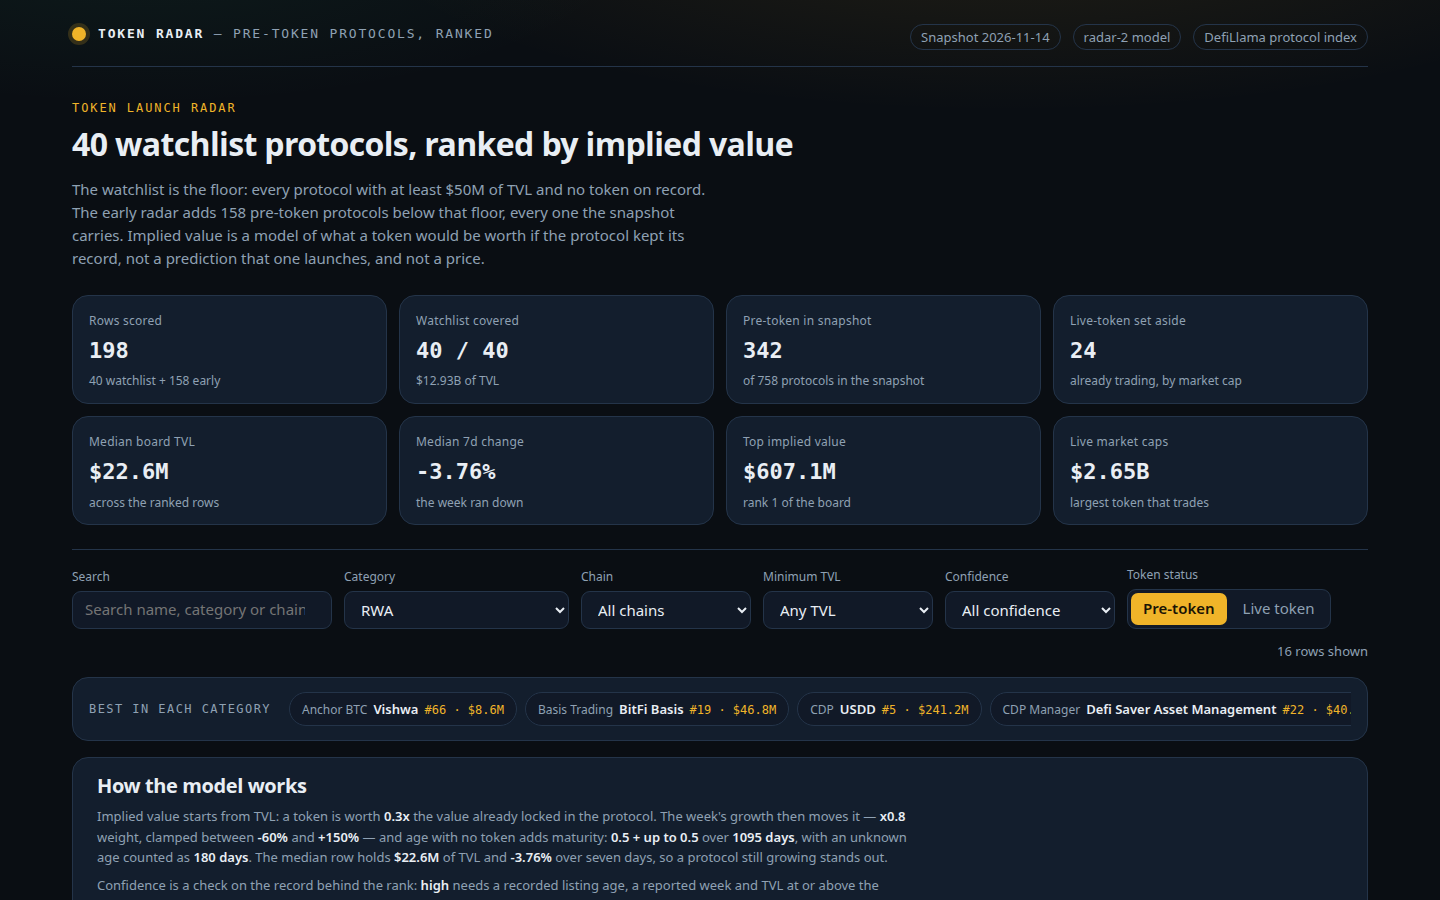
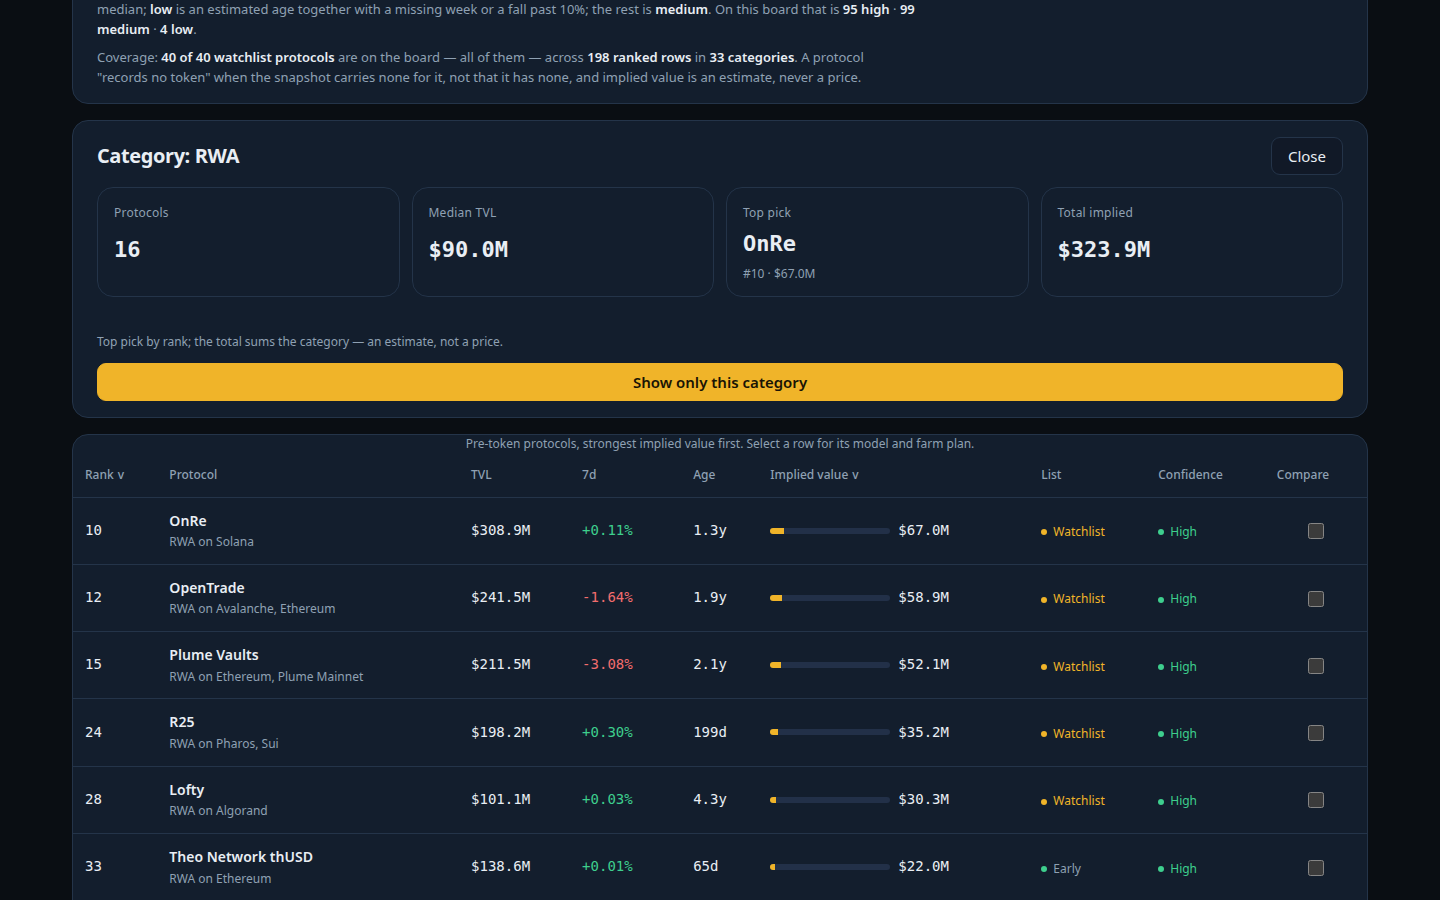
Round 5: compare two protocols + category overview (dashboard-only, board unchanged)

diff --git a/dashboard/app.js b/dashboard/app.js
@@ -250,7 +250,7 @@ function planTotalText(steps) {
   if (!DATA || typeof document === 'undefined') return;
   var app = document.getElementById('board');
   if (!app) return;
-  var state = { q: '', category: 'all', chain: 'all', minTvl: 0, confidence: 'all', tab: 'pre-token', sort: 'implied', dir: -1, selected: null, kbIndex: -1 };
+  var state = { q: '', category: 'all', chain: 'all', minTvl: 0, confidence: 'all', tab: 'pre-token', sort: 'implied', dir: -1, selected: null, kbIndex: -1, compare: [], catOv: null };
 
   function el(tag, attrs) {
     var node = document.createElement(tag);
@@ -282,6 +282,8 @@ function planTotalText(steps) {
     if (params.get('chain')) state.chain = params.get('chain');
     if (params.get('mintvl')) state.minTvl = Number(params.get('mintvl')) || 0;
     if (params.get('conf')) state.confidence = params.get('conf');
+    if (params.get('cmp')) state.compare = params.get('cmp').split(',').slice(0, 2);
+    if (params.get('catov')) state.catOv = params.get('catov');
     if (params.get('tab')) state.tab = params.get('tab');
     if (params.get('p')) state.selected = params.get('p');
   }
@@ -292,6 +294,8 @@ function planTotalText(steps) {
     if (state.chain !== 'all') params.set('chain', state.chain);
     if (state.minTvl) params.set('mintvl', String(state.minTvl));
     if (state.confidence !== 'all') params.set('conf', state.confidence);
+    if (state.compare.length) params.set('cmp', state.compare.join(','));
+    if (state.catOv) params.set('catov', state.catOv);
     if (state.tab !== 'pre-token') params.set('tab', state.tab);
     if (state.selected) params.set('p', state.selected);
     var next = params.toString();
@@ -405,7 +409,8 @@ function planTotalText(steps) {
       el('div', { class: 'field' }, el('label', { for: 'mintvl', text: 'Minimum TVL' }), mintvl),
       el('div', { class: 'field' }, el('label', { for: 'confidence', text: 'Confidence' }), conf),
       el('div', { class: 'field' }, el('span', { class: 'sub', text: 'Token status' }), el('div', { class: 'tabs' }, pre, live)),
-      el('span', { class: 'count', text: state.tab === 'pre-token' ? rows().length + ' rows shown' : DATA.live.length + ' live-token protocols' })
+      el('span', { class: 'count', text: state.tab === 'pre-token' ? rows().length + ' rows shown' : DATA.live.length + ' live-token protocols' }),
+      state.category !== 'all' ? el('button', { class: 'button', type: 'button', text: 'Category overview', onclick: function () { openCatOv(state.category); } }) : null
     );
   }
 
@@ -452,7 +457,10 @@ function planTotalText(steps) {
           el('span', { class: 'num', text: fmtUsd(r.implied_value_usd) })
         )),
         el('td', null, el('span', { class: r.watchlist ? 'badge watch' : 'badge', text: r.watchlist ? 'Watchlist' : 'Early' })),
-        el('td', null, el('span', { class: 'badge conf-' + confidenceOf(r, DATA.median_tvl_usd), text: confidenceLabel(confidenceOf(r, DATA.median_tvl_usd)) }))
+        el('td', null, el('span', { class: 'badge conf-' + confidenceOf(r, DATA.median_tvl_usd), text: confidenceLabel(confidenceOf(r, DATA.median_tvl_usd)) })),
+        el('td', { class: 'cmp', onclick: function (e) { e.stopPropagation(); } },
+          el('input', { type: 'checkbox', 'aria-label': 'Compare ' + r.name, checked: state.compare.indexOf(r.slug) >= 0 ? 'checked' : null, onchange: function () { toggleCompare(r.slug); } })
+        )
       );
       if (state.kbIndex === i) tr.classList.add('kb-selected');
       tbody.appendChild(tr);
@@ -469,7 +477,8 @@ function planTotalText(steps) {
             sortHeader('age', 'Age'),
             sortHeader('implied', 'Implied value'),
             el('th', { scope: 'col', text: 'List' }),
-            sortHeader('confidence', 'Confidence')
+            sortHeader('confidence', 'Confidence'),
+            el('th', { scope: 'col', text: 'Compare' })
           )),
           tbody
         )
@@ -515,10 +524,12 @@ function planTotalText(steps) {
       el('span', { class: 'best-label', text: 'Best in each category' }),
       el('div', { class: 'best-list' }, cats.map(function (c) {
         var r = byCat[c];
-        return el('button', { type: 'button', class: 'best-item', onclick: function () { openDetail(r.slug); } },
-          el('span', { class: 'best-cat', text: c }),
-          el('b', { text: r.name }),
-          el('span', { class: 'num', text: '#' + r.rank + ' · ' + fmtUsd(r.implied_value_usd) })
+        return el('span', { class: 'best-item' },
+          el('button', { type: 'button', class: 'best-cat', text: c, onclick: function () { openCatOv(c); } }),
+          el('button', { type: 'button', class: 'best-open', onclick: function () { openDetail(r.slug); } },
+            el('b', { text: r.name }),
+            el('span', { class: 'num', text: '#' + r.rank + ' · ' + fmtUsd(r.implied_value_usd) })
+          )
         );
       }))
     );
@@ -553,6 +564,90 @@ function planTotalText(steps) {
         'across ', el('b', { text: DATA.board_size + ' ranked rows' }), ' in ', el('b', { text: categories + ' categories' }), '. ',
         'A protocol "records no token" when the snapshot carries none for it, not that it has none, and implied value is an estimate, never a price.'
       )
+    );
+  }
+
+  /** Compare, by slug: two protocols side by side, with a verdict the model implies.
+      Selection lives in state, so it survives filtering; a third check replaces the oldest. */
+  function rowBySlug(slug) {
+    return DATA.rows.filter(function (r) { return r.slug === slug; })[0];
+  }
+  function toggleCompare(slug) {
+    var i = state.compare.indexOf(slug);
+    if (i >= 0) state.compare.splice(i, 1);
+    else { if (state.compare.length >= 2) state.compare.shift(); state.compare.push(slug); }
+    writeHash(); render();
+  }
+  function compareVerdict(a, b) {
+    var hi = a.implied_value_usd >= b.implied_value_usd ? a : b;
+    var lo = hi === a ? b : a;
+    var out = hi.name + ' #' + hi.rank + ' beats ' + lo.name + ' #' + lo.rank + ': ' + fmtUsd(hi.tvl_usd) + ' of TVL, ' + (hi.tvl_usd / Math.max(1, lo.tvl_usd)).toFixed(1) + 'x the other';
+    if (hi.change_7d !== null && lo.change_7d !== null && hi.change_7d !== lo.change_7d) out += ', and it ' + (hi.change_7d > lo.change_7d ? 'grew faster this week' : 'still ranks higher') + ' (' + fmtPct(hi.change_7d) + ' vs ' + fmtPct(lo.change_7d) + ')';
+    return out + ' — so the model reads ' + fmtUsd(hi.implied_value_usd) + ' against ' + fmtUsd(lo.implied_value_usd) + '.';
+  }
+  function comparePanel() {
+    if (state.compare.length === 0) return null;
+    var picked = state.compare.map(rowBySlug).filter(function (r) { return r; });
+    if (picked.length === 0) return null;
+    var names = picked.map(function (r) { return r.name; }).join(' vs ');
+    var head = el('div', { class: 'compare-head' },
+      el('h2', { text: picked.length === 2 ? 'Compare: ' + names : 'Compare: ' + names + ' — pick one more' }),
+      el('button', { class: 'button', type: 'button', text: 'Clear', onclick: function () { state.compare = []; writeHash(); render(); } })
+    );
+    if (picked.length < 2) return el('section', { class: 'panel compare' }, head);
+    var a = picked[0], b = picked[1];
+    function planCell(r) {
+      var t = planTotals(farmSteps(r));
+      return 'about ' + fmtGas(t.gas) + ' gas · ' + (t.hours === null ? 'n/a' : t.hours + 'h over ' + t.days + 'd');
+    }
+    function metric(label, fa, fb) {
+      return el('tr', null, el('th', { scope: 'row', text: label }), el('td', { class: 'num', text: fa }), el('td', { class: 'num', text: fb }));
+    }
+    return el('section', { class: 'panel compare', 'aria-label': 'Compare protocols' }, head,
+      el('div', { class: 'table-wrap' },
+        el('table', null,
+          el('thead', null, el('tr', null, el('th', { scope: 'col', text: 'Metric' }), el('th', { scope: 'col', text: a.name }), el('th', { scope: 'col', text: b.name }))),
+          el('tbody', null,
+            metric('Rank', '#' + a.rank, '#' + b.rank),
+            metric('TVL', fmtUsd(a.tvl_usd), fmtUsd(b.tvl_usd)),
+            metric('7-day growth', fmtPct(a.change_7d), fmtPct(b.change_7d)),
+            metric('Age, no token', fmtAge(a.age_days), fmtAge(b.age_days)),
+            metric('Implied value', fmtUsd(a.implied_value_usd), fmtUsd(b.implied_value_usd)),
+            metric('Confidence', confidenceLabel(confidenceOf(a, DATA.median_tvl_usd)), confidenceLabel(confidenceOf(b, DATA.median_tvl_usd))),
+            metric('Plan total', planCell(a), planCell(b))
+          )
+        )
+      ),
+      el('p', { class: 'sub verdict', text: compareVerdict(a, b) })
+    );
+  }
+
+  /** A category at a glance, from the board alone. */
+  function catStats(cat) {
+    var list = DATA.rows.filter(function (r) { return (r.category || 'Other') === cat; });
+    var tvls = list.map(function (r) { return r.tvl_usd; }).sort(function (x, y) { return x - y; });
+    var top = list.slice().sort(function (x, y) { return x.rank - y.rank; })[0];
+    var total = list.reduce(function (n, r) { return n + r.implied_value_usd; }, 0);
+    return { count: list.length, median: tvls.length ? tvls[Math.floor(tvls.length / 2)] : 0, top: top, total: total };
+  }
+  function openCatOv(cat) { state.catOv = cat; writeHash(); render(); }
+  function catOvPanel() {
+    if (!state.catOv) return null;
+    var s = catStats(state.catOv);
+    if (!s.top) return null;
+    return el('section', { class: 'panel catov', 'aria-label': 'Category overview' },
+      el('div', { class: 'compare-head' },
+        el('h2', { text: 'Category: ' + state.catOv }),
+        el('button', { class: 'button', type: 'button', text: 'Close', onclick: function () { state.catOv = null; writeHash(); render(); } })
+      ),
+      el('div', { class: 'tiles' },
+        tile('Protocols', String(s.count), ''),
+        tile('Median TVL', fmtUsd(s.median), ''),
+        tile('Top pick', s.top.name, '#' + s.top.rank + ' · ' + fmtUsd(s.top.implied_value_usd)),
+        tile('Total implied', fmtUsd(s.total), '')
+      ),
+      el('p', { class: 'sub', text: 'Top pick by rank; the total sums the category — an estimate, not a price.' }),
+      el('button', { class: 'button primary', type: 'button', text: 'Show only this category', onclick: function () { state.category = state.catOv; state.catOv = null; writeHash(); render(); } })
     );
   }
 
@@ -649,6 +744,11 @@ function planTotalText(steps) {
     shell.appendChild(controls());
     if (state.tab === 'pre-token') shell.appendChild(bestStrip());
     if (state.tab === 'pre-token') shell.appendChild(methodPanel());
+    if (state.tab === 'pre-token') {
+      var cp = comparePanel(), co = catOvPanel();
+      if (cp) shell.appendChild(cp);
+      if (co) shell.appendChild(co);
+    }
     shell.appendChild(state.tab === 'pre-token' ? boardTable() : liveTable());
     if (state.tab === 'pre-token') shell.appendChild(modelPanel());
     shell.appendChild(el('p', { class: 'footnote', text: 'Source: ' + DATA.source + '. Snapshot as of ' + DATA.as_of + '. Implied values are the radar-2 model, computed from the snapshot alone.' }));

diff --git a/dashboard/app.css b/dashboard/app.css
@@ -183,3 +183,11 @@ tbody tr.kb-selected { background: rgba(240, 180, 41, 0.14); outline: 2px solid 
 @media (prefers-reduced-motion: reduce) {
   *, *::before, *::after { transition-duration: 0.01ms !important; animation-duration: 0.01ms !important; animation-iteration-count: 1 !important; }
 }
+
+.cmp { text-align: center; }
+.cmp input { accent-color: var(--accent); width: 16px; height: 16px; cursor: pointer; vertical-align: middle; }
+.compare, .catov { margin-bottom: var(--s4); padding: var(--s4) var(--s5); display: grid; gap: var(--s3); }
+.compare-head { display: flex; align-items: center; justify-content: space-between; gap: var(--s3); }
+.compare tbody tr { cursor: default; }
+.best-item button { border: 0; background: none; padding: 0; color: inherit; font: inherit; }
+.best-open { display: inline-flex; align-items: baseline; gap: 6px; }
